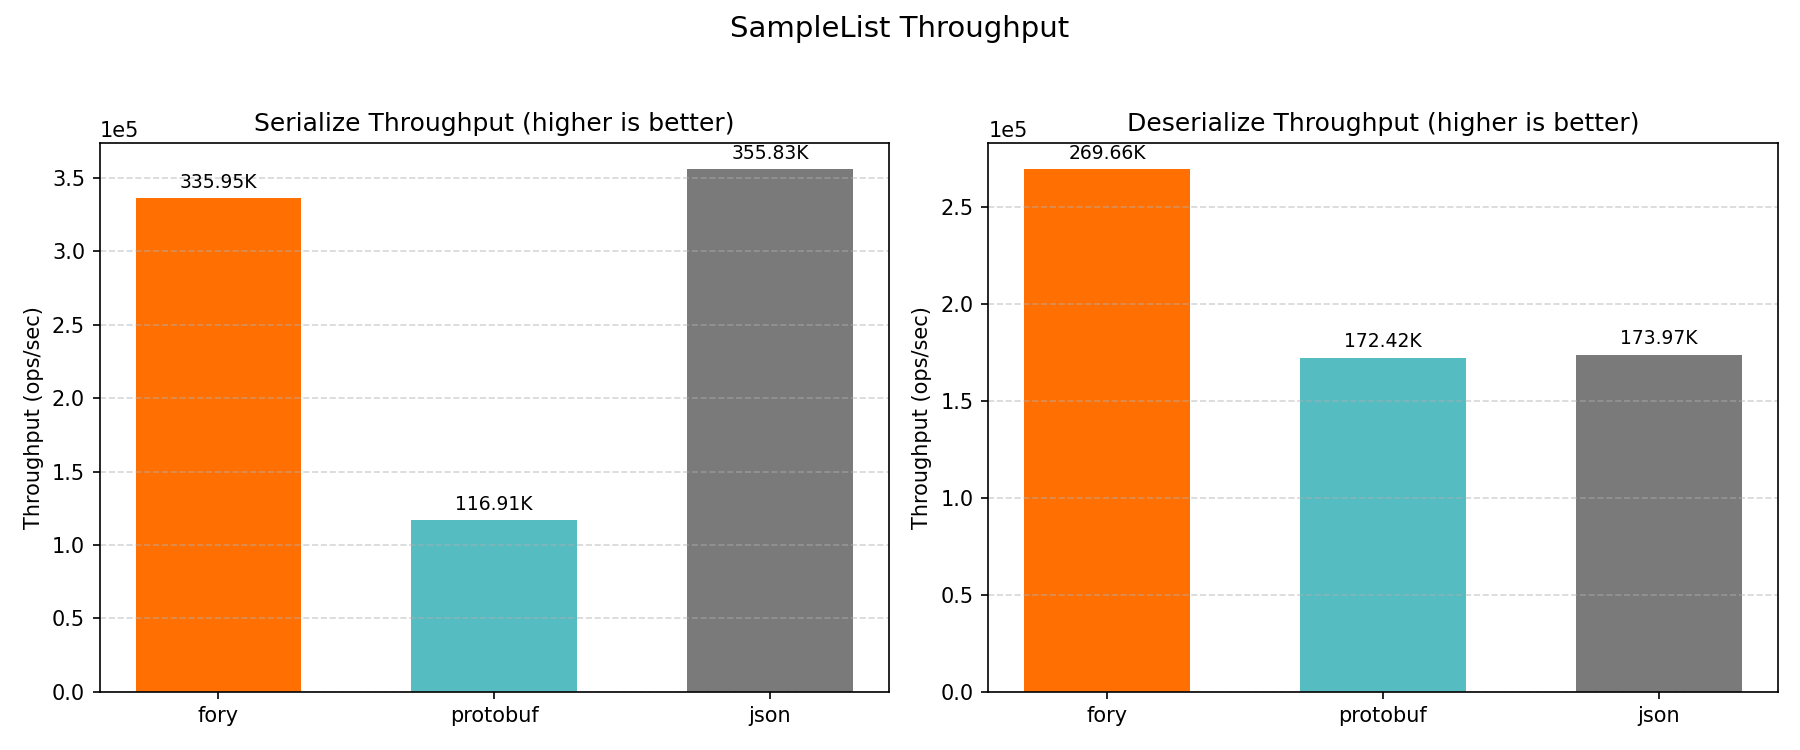
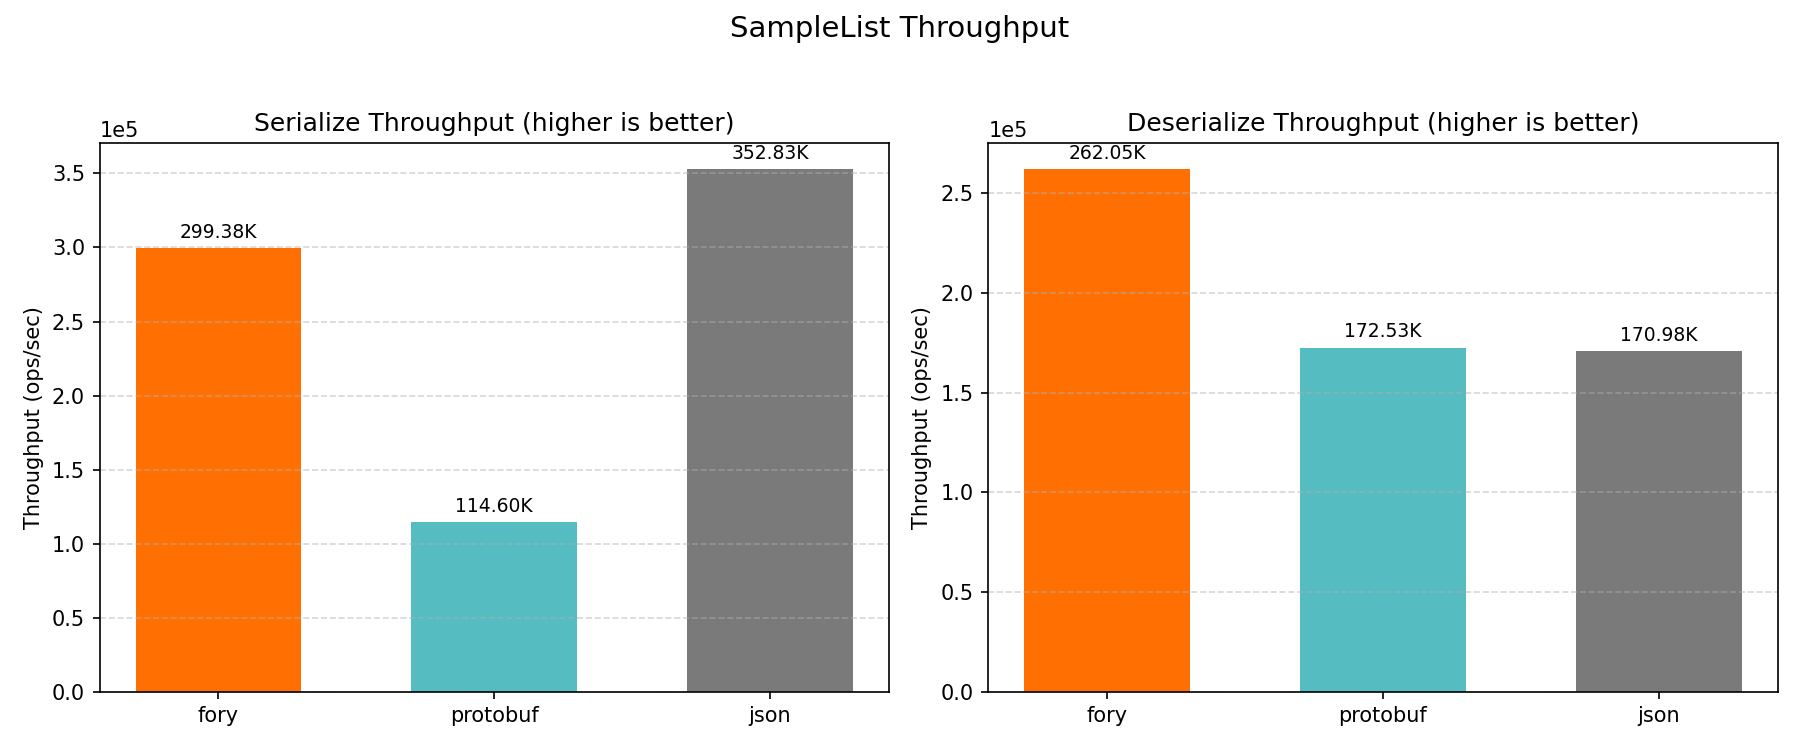
add js benchmark result

diff --git a/benchmarks/javascript/benchmark_report.py b/benchmarks/javascript/benchmark_report.py
@@ -45,6 +45,14 @@ SERIALIZER_LABELS = {
     "protobuf": "protobuf",
     "json": "json",
 }
+DATATYPE_ORDER = [
+    "struct",
+    "sample",
+    "mediacontent",
+    "structlist",
+    "samplelist",
+    "mediacontentlist",
+]
 
 parser = argparse.ArgumentParser(
     description="Generate plots and Markdown report for JavaScript benchmark results"
@@ -188,7 +196,7 @@ def plot_datatype(ax, datatype, operation):
 
 
 plot_images = []
-datatypes = sorted(data.keys())
+datatypes = [datatype for datatype in DATATYPE_ORDER if datatype in data]
 operations = ["serialize", "deserialize"]
 
 for datatype in datatypes:

diff --git a/docs/benchmarks/javascript/README.md b/docs/benchmarks/javascript/README.md
@@ -1,6 +1,6 @@
 # JavaScript Benchmark Performance Report
 
-_Generated on 2026-04-14 14:05:17_
+_Generated on 2026-04-14 14:56:11_
 
 ## How to Generate This Report
 
@@ -19,7 +19,7 @@ cd benchmarks/javascript
 | CPU Cores (Physical)       | 12                       |
 | CPU Cores (Logical)        | 12                       |
 | Total RAM (GB)             | 48.0                     |
-| Benchmark Date             | 2026-04-14T06:03:26.265Z |
+| Benchmark Date             | 2026-04-14T06:50:56.546Z |
 | CPU Cores (from benchmark) | 12                       |
 | Node.js                    | v25.8.1                  |
 | V8                         | 14.1.146.11-node.21      |
@@ -62,35 +62,35 @@ All class-level plots below show throughput (ops/sec).
 
 | Datatype         | Operation   | fory (ns) | protobuf (ns) | json (ns) | Fastest  |
 | ---------------- | ----------- | --------- | ------------- | --------- | -------- |
-| MediaContent     | Serialize   | 876.9     | 1415.2        | 560.8     | json     |
-| MediaContent     | Deserialize | 1361.0    | 923.2         | 1191.3    | protobuf |
-| MediaContentList | Serialize   | 4158.8    | 6570.6        | 2610.4    | json     |
-| MediaContentList | Deserialize | 5274.6    | 4502.4        | 5914.4    | protobuf |
-| Sample           | Serialize   | 646.1     | 2174.9        | 591.3     | json     |
-| Sample           | Deserialize | 1053.5    | 1194.7        | 1317.1    | fory     |
-| SampleList       | Serialize   | 2976.6    | 8553.4        | 2810.3    | json     |
-| SampleList       | Deserialize | 3708.4    | 5799.9        | 5748.1    | fory     |
-| Struct           | Serialize   | 121.6     | 436.6         | 83.0      | json     |
-| Struct           | Deserialize | 223.8     | 110.6         | 254.3     | protobuf |
-| StructList       | Serialize   | 323.6     | 1593.6        | 420.3     | fory     |
-| StructList       | Deserialize | 481.0     | 638.3         | 1033.1    | fory     |
+| Struct           | Serialize   | 113.4     | 434.5         | 88.4      | json     |
+| Struct           | Deserialize | 220.6     | 113.7         | 261.4     | protobuf |
+| Sample           | Serialize   | 692.7     | 2154.4        | 596.4     | json     |
+| Sample           | Deserialize | 1139.3    | 1218.0        | 1392.9    | fory     |
+| MediaContent     | Serialize   | 875.3     | 1340.1        | 563.8     | json     |
+| MediaContent     | Deserialize | 1385.8    | 900.9         | 1188.0    | protobuf |
+| StructList       | Serialize   | 359.1     | 1581.4        | 426.1     | fory     |
+| StructList       | Deserialize | 488.9     | 639.2         | 1042.4    | fory     |
+| SampleList       | Serialize   | 3340.3    | 8725.7        | 2834.2    | json     |
+| SampleList       | Deserialize | 3816.0    | 5796.2        | 5848.5    | fory     |
+| MediaContentList | Serialize   | 4142.2    | 6626.7        | 2442.4    | json     |
+| MediaContentList | Deserialize | 5524.2    | 4557.2        | 6305.6    | protobuf |
 
 ### Throughput Results (ops/sec)
 
 | Datatype         | Operation   | fory TPS  | protobuf TPS | json TPS   | Fastest  |
 | ---------------- | ----------- | --------- | ------------ | ---------- | -------- |
-| MediaContent     | Serialize   | 1,140,402 | 706,626      | 1,783,311  | json     |
-| MediaContent     | Deserialize | 734,733   | 1,083,190    | 839,405    | protobuf |
-| MediaContentList | Serialize   | 240,455   | 152,193      | 383,077    | json     |
-| MediaContentList | Deserialize | 189,587   | 222,105      | 169,080    | protobuf |
-| Sample           | Serialize   | 1,547,651 | 459,792      | 1,691,264  | json     |
-| Sample           | Deserialize | 949,243   | 837,018      | 759,217    | fory     |
-| SampleList       | Serialize   | 335,951   | 116,913      | 355,831    | json     |
-| SampleList       | Deserialize | 269,660   | 172,417      | 173,971    | fory     |
-| Struct           | Serialize   | 8,223,001 | 2,290,315    | 12,047,596 | json     |
-| Struct           | Deserialize | 4,468,033 | 9,045,242    | 3,931,739  | protobuf |
-| StructList       | Serialize   | 3,090,101 | 627,514      | 2,379,216  | fory     |
-| StructList       | Deserialize | 2,078,801 | 1,566,673    | 967,981    | fory     |
+| Struct           | Serialize   | 8,815,859 | 2,301,627    | 11,309,688 | json     |
+| Struct           | Deserialize | 4,532,327 | 8,793,358    | 3,825,292  | protobuf |
+| Sample           | Serialize   | 1,443,696 | 464,162      | 1,676,750  | json     |
+| Sample           | Deserialize | 877,718   | 821,027      | 717,930    | fory     |
+| MediaContent     | Serialize   | 1,142,472 | 746,194      | 1,773,606  | json     |
+| MediaContent     | Deserialize | 721,615   | 1,109,944    | 841,732    | protobuf |
+| StructList       | Serialize   | 2,785,094 | 632,345      | 2,346,856  | fory     |
+| StructList       | Deserialize | 2,045,390 | 1,564,335    | 959,342    | fory     |
+| SampleList       | Serialize   | 299,376   | 114,603      | 352,832    | json     |
+| SampleList       | Deserialize | 262,051   | 172,528      | 170,985    | fory     |
+| MediaContentList | Serialize   | 241,415   | 150,904      | 409,430    | json     |
+| MediaContentList | Deserialize | 181,020   | 219,434      | 158,590    | protobuf |
 
 ### Serialized Data Sizes (bytes)
 
